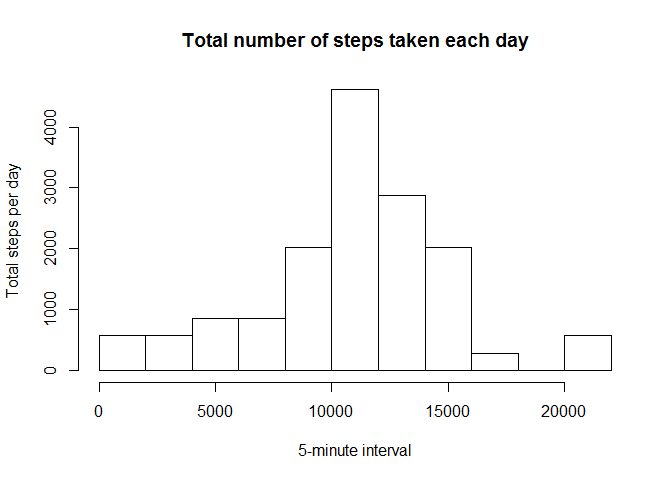
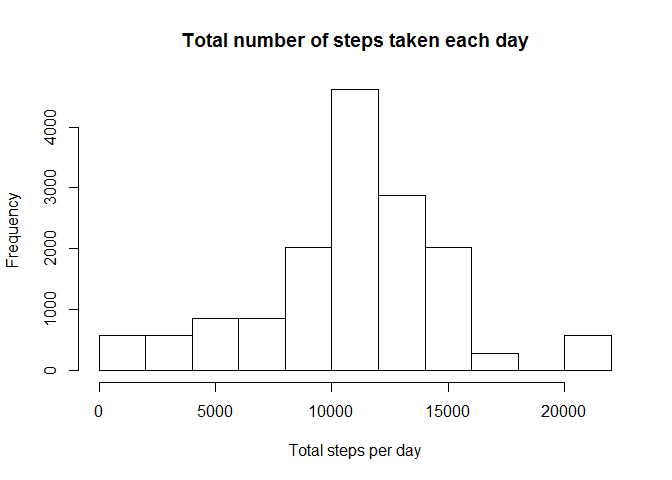
Peer Assignment 01

Changed region(s): [[0.4375, 0.9062, 0.625, 0.9688], [0.0, 0.3438, 0.0312, 0.625]]

diff --git a/PA1_template.html b/PA1_template.html
@@ -57,8 +57,9 @@ if (window.hljs && document.readyState && document.readyState === "complete") {
 
 <div id="libraries" class="section level2">
 <h2>Libraries</h2>
-<pre class="r"><code>library(data.table)
-library(ggplot2)
+<pre class="r"><code>library(data.table)</code></pre>
+<pre><code>## Warning: package 'data.table' was built under R version 3.1.2</code></pre>
+<pre class="r"><code>library(ggplot2)
 library(plyr)</code></pre>
 </div>
 <div id="loading-and-preprocessing-the-data" class="section level2">
@@ -77,8 +78,8 @@ dtaux[, meanstepsperinterval := mean(as.numeric(steps), na.rm = TRUE), by = inte
 <div id="histogram-of-the-total-number-of-steps-taken-each-day" class="section level3">
 <h3>1. Histogram of the total number of steps taken each day</h3>
 <pre class="r"><code>## histogram of the total number of steps taken each day
-hist(dtaux[,totalstepsperday], main=&quot;Total number of steps taken each day&quot;, xlab=&quot;5-minute interval&quot;, ylab=&quot;Total steps per day&quot;)</code></pre>
[1 lines of base64/hex data omitted]
+hist(dtaux[,totalstepsperday], main=&quot;Total number of steps taken each day&quot;, xlab=&quot;Total steps per day&quot;, ylab=&quot;Frequency&quot;)</code></pre>
[1 lines of base64/hex data omitted]
 </div>
 <div id="the-mean-and-median-total-number-of-steps-taken-per-day" class="section level3">
 <h3>2. The mean and median total number of steps taken per day</h3>
@@ -138,8 +139,8 @@ newdt[, totalstepsperday := sum(steps), by = date] #Total</code></pre>
 <div id="histogram-of-the-total-number-of-steps-taken-each-day-1" class="section level3">
 <h3>4. Histogram of the total number of steps taken each day</h3>
 <pre class="r"><code>## histogram of the total number of steps taken each day
-hist(newdt[,totalstepsperday], main=&quot;Total number of steps taken each day&quot;, xlab=&quot;5-minute interval&quot;, ylab=&quot;Total steps per day&quot;)</code></pre>
[1 lines of base64/hex data omitted]
+hist(newdt[,totalstepsperday], main=&quot;Total number of steps taken each day&quot;, xlab=&quot;Total steps per day&quot;, ylab=&quot;Frequency&quot;)</code></pre>
[1 lines of base64/hex data omitted]
 <div id="the-mean-and-median-total-number-of-steps-taken-per-day-1" class="section level4">
 <h4>4.1 The mean and median total number of steps taken per day</h4>
 <pre class="r"><code>meandifference &lt;- mean(newdt[,totalstepsperday]) - mean(dtaux[,totalstepsperday]) #Mean

diff --git a/PA1_template.md b/PA1_template.md
@@ -5,6 +5,13 @@
 
 ```r
 library(data.table)
+```
+
+```
+## Warning: package 'data.table' was built under R version 3.1.2
+```
+
+```r
 library(ggplot2)
 library(plyr)
 ```
@@ -23,14 +30,14 @@ dtaux[, totalstepsperday := sum(as.numeric(steps), na.rm = TRUE), by = date] #To
 dtaux[, meanstepsperinterval := mean(as.numeric(steps), na.rm = TRUE), by = interval] #Mean
 ```
    
-##What is mean total number of steps taken per day?
+##What is mean total number of steps taken per day? 
 
 ###1. Histogram of the total number of steps taken each day
 
 
 ```r
 ## histogram of the total number of steps taken each day
-hist(dtaux[,totalstepsperday], main="Total number of steps taken each day", xlab="5-minute interval", ylab="Total steps per day")
+hist(dtaux[,totalstepsperday], main="Total number of steps taken each day", xlab="Total steps per day", ylab="Frequency")
 ```
 
 ![](./PA1_template_files/figure-html/unnamed-chunk-3-1.png) 
@@ -122,7 +129,7 @@ newdt[, totalstepsperday := sum(steps), by = date] #Total
 
 ```r
 ## histogram of the total number of steps taken each day
-hist(newdt[,totalstepsperday], main="Total number of steps taken each day", xlab="5-minute interval", ylab="Total steps per day")
+hist(newdt[,totalstepsperday], main="Total number of steps taken each day", xlab="Total steps per day", ylab="Frequency")
 ```
 
 ![](./PA1_template_files/figure-html/unnamed-chunk-9-1.png) 
